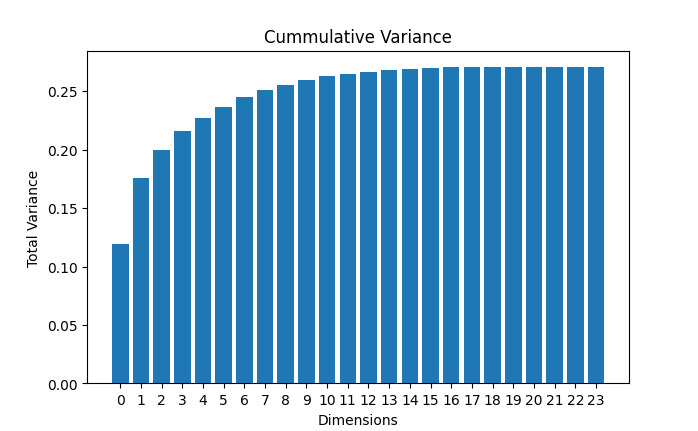
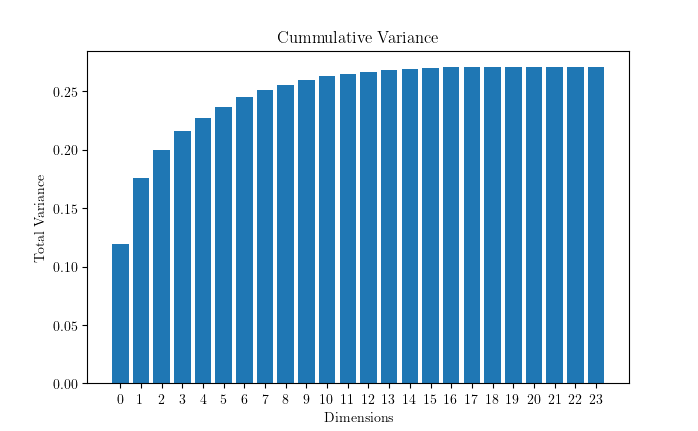
updated graph

diff --git a/Years/Year2/Semester2/Learning/CW/python_code/test.py b/Years/Year2/Semester2/Learning/CW/python_code/test.py
@@ -3,12 +3,6 @@ import scipy.io
 import matplotlib.pyplot as plt
 import matplotlib
 
-matplotlib.rcParams.update({
-    "pgf.texsystem": "pdflatex",
-    'font.family': 'serif',
-    'text.usetex': True,
-    'pgf.rcfonts': False,
-})
 
 import task1_1
 import task1_3
@@ -71,6 +65,13 @@ if __name__ == "__main__":
     width = 505 #252.5
     
     # TASK1_1
+    matplotlib.rcParams.update({
+    "pgf.texsystem": "pdflatex",
+    'font.family': 'serif',
+    'text.usetex': True,
+    'pgf.rcfonts': False,
+    })
+
     print("task1_1")
     data = scipy.io.loadmat("../data/dset.mat")
     task1_1.task1_1(data["X"],data)
@@ -104,6 +105,13 @@ if __name__ == "__main__":
 
     # TASK1_3
     plt.rcdefaults()
+    matplotlib.rcParams.update({
+    "pgf.texsystem": "pdflatex",
+    'font.family': 'serif',
+    'text.usetex': True,
+    'pgf.rcfonts': False,
+    })
+
     print("task1_3")
     task1_3.task1_3(outS)
 
